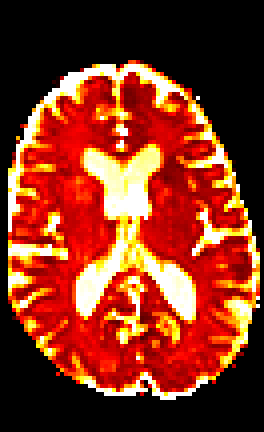
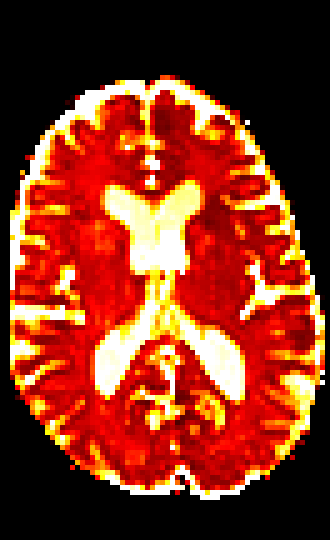
Enhance CUDA and C++ implementations for sub-diffusion fitting; add "best sequential" baseline, update output paths, and improve function definitions for compatibility.

Changed region(s): [[0.5455, 0.8727, 0.6061, 0.9028], [0.2121, 0.8426, 0.2424, 0.8727]]

diff --git a/serial_cpp/main.cpp b/serial_cpp/main.cpp
@@ -12,9 +12,19 @@
 #include <vector>
 
 #include "read_mri.h"
-#include "mittag-leffler.h"
-#include "fit_voxel_sub_ml.h"
 #include "save_map.h"
+
+// BEST_SEQUENTIAL (target fit_sub_best): the CUDA version's algorithm on one CPU core,
+// i.e. specialised Mittag-Leffler, analytic Jacobian and a small LM solver instead of Ceres
+#ifdef BEST_SEQUENTIAL
+#include "fit_voxel_sub_ml.cuh"
+constexpr const char *VARIANT = "best sequential";
+constexpr const char *OUTPUT_DIR = "serial_cpp/outputs_best";
+#else
+#include "fit_voxel_sub_ml.h"
+constexpr const char *VARIANT = "serial, Ceres";
+constexpr const char *OUTPUT_DIR = "serial_cpp/outputs";
+#endif
 
 // Configuration
 const std::string SUBJECT = "sub_001";
@@ -117,6 +127,7 @@ int main(int argc, char *argv[])
             ++num_voxels;
         }
     }
+    std::printf("Variant: %s\n", VARIANT);
     if (all_slices)
         std::printf("Fitting %zu brain voxels (all %zu slices)\n", num_voxels, L);
     else
@@ -150,7 +161,11 @@ int main(int argc, char *argv[])
                     svec[k] = S[idx + k * X * Y * L] / S0.data[idx];
                 }
 
+#ifdef BEST_SEQUENTIAL
+                auto [D, beta, err] = fit_voxel_sub_ml<NB>(svec.data(), BVEC.data(), D_GUESS, BETA_GUESS, D_MIN, D_MAX, BETA_MIN, BETA_MAX);
+#else
                 auto [D, beta, err] = fit_voxel_sub_ml(svec, BVEC, D_GUESS, BETA_GUESS, D_MIN, D_MAX, BETA_MIN, BETA_MAX);
+#endif
                 D_SUB[idx] = D;
                 BETA_SUB[idx] = beta;
                 ERROR_SUB[idx] = err;
@@ -174,7 +189,7 @@ int main(int argc, char *argv[])
     // --- Parameter maps ---
     const std::size_t l_show = slice - 1; // axial slice to display, 0-based
 
-    const std::string save_path = std::format("serial_cpp/outputs/slice_{}/", slice);
+    const std::string save_path = std::format("{}/slice_{}/", OUTPUT_DIR, slice);
     std::filesystem::create_directories(save_path); // ofstream won't create missing folders
     save_map_png(save_path + "D_SUB.png", D_SUB, X, Y, l_show, 0.0, 3e-3, 5);
     save_map_png(save_path + "RMSE.png", ERROR_SUB, X, Y, l_show, 0.0, 0.1, 5);
